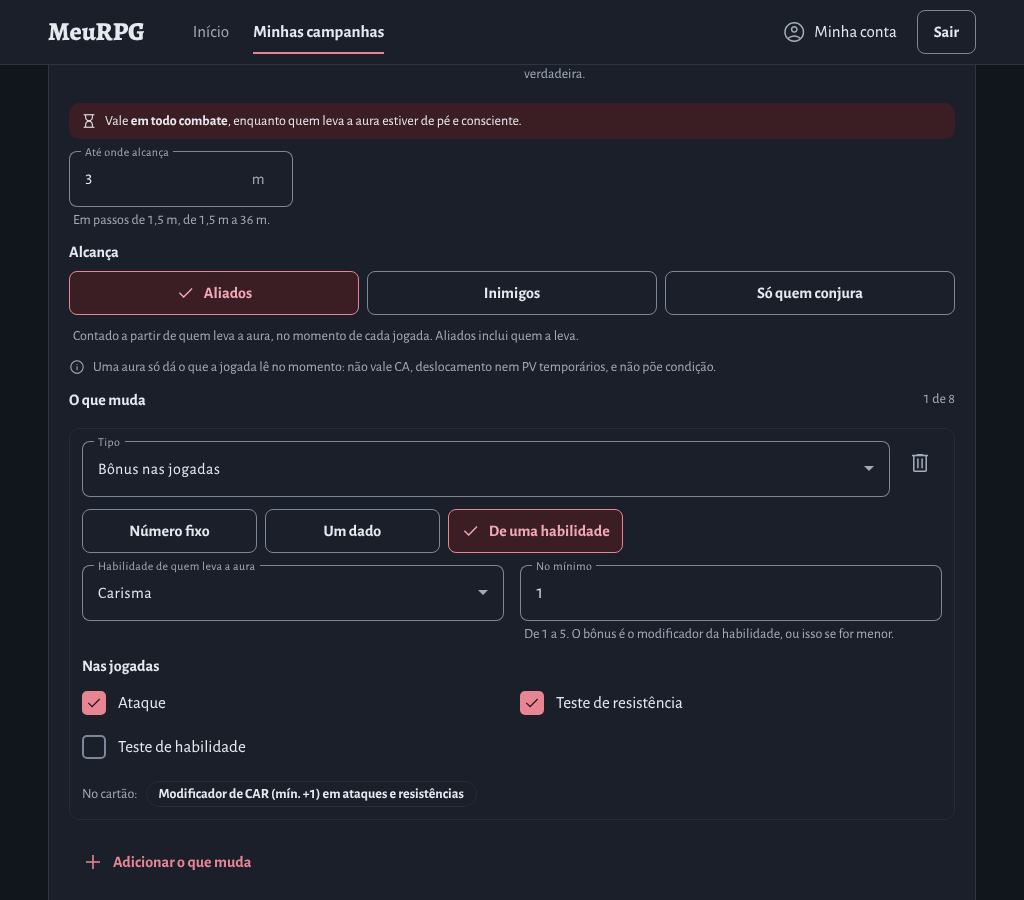
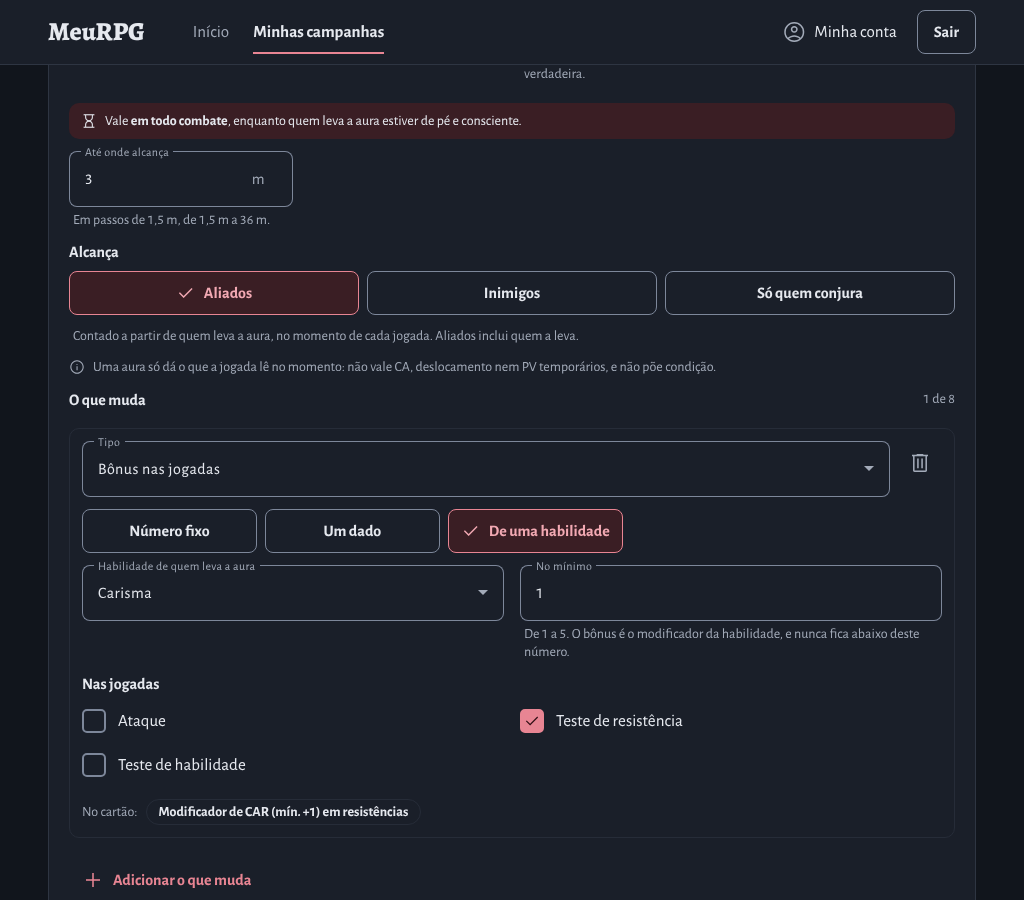
screenshots: #579 slice 3, 390 and the saving-throws example

diff --git a/table-auras-579/README.md b/table-auras-579/README.md
@@ -12,6 +12,9 @@ Captured on `feat/table-auras-579`, light and dark, at 390, 768 and 1280 (the ma
 
 # #579 slice 3: a feature's aura
 
-Captured on `feat/table-auras-579-feature`: the class feature editor with the effect type "Aura" (Aura de Proteção, paladin level 6). The editors are offered from 768 up, so there is no 390.
+Captured on `feat/table-auras-579-feature`: the class feature editor with the effect type "Aura" (Aura de Proteção, paladin level 6: the Charisma modifier, at least +1, on saving throws only, as SRD 5.1 has it).
+The editors are offered from 768 up. The 390 shots turn off only the script's own phone query, so the block's CSS runs at 390 (the page around it is the laptop one).
 
-- `579-i-aura-da-caracteristica` the spell's effect block as a feature has it: no switch and no duration (a line says it holds the whole combat), the range, "Alcança", and a roll bonus taken "De uma habilidade". The ability and "No mínimo" sit in a row of their own under the three-way control, and "Nas jogadas" and the card's label follow. Light at 1280 and 768, dark at 1024.
+- `579-i-aura-da-caracteristica` the spell's effect block as a feature has it: no switch and no duration to set (a line says it holds the whole combat), the range, "Alcança" as three equal segments in one row, and the roll bonus taken "De uma habilidade" with the ability and "No mínimo" side by side in a row of their own. Light at 1280, 768 and 390; dark at 1024 and 390.
+- At 390 the three segments keep equal width in one row (their words wrap inside the cell, no orphan), the two fields stack full-width, and the line about the whole combat wraps beside its icon.
+- `579-i-segmentos-2x` a 2x crop of the roll mode's three segments at 390, both themes.
